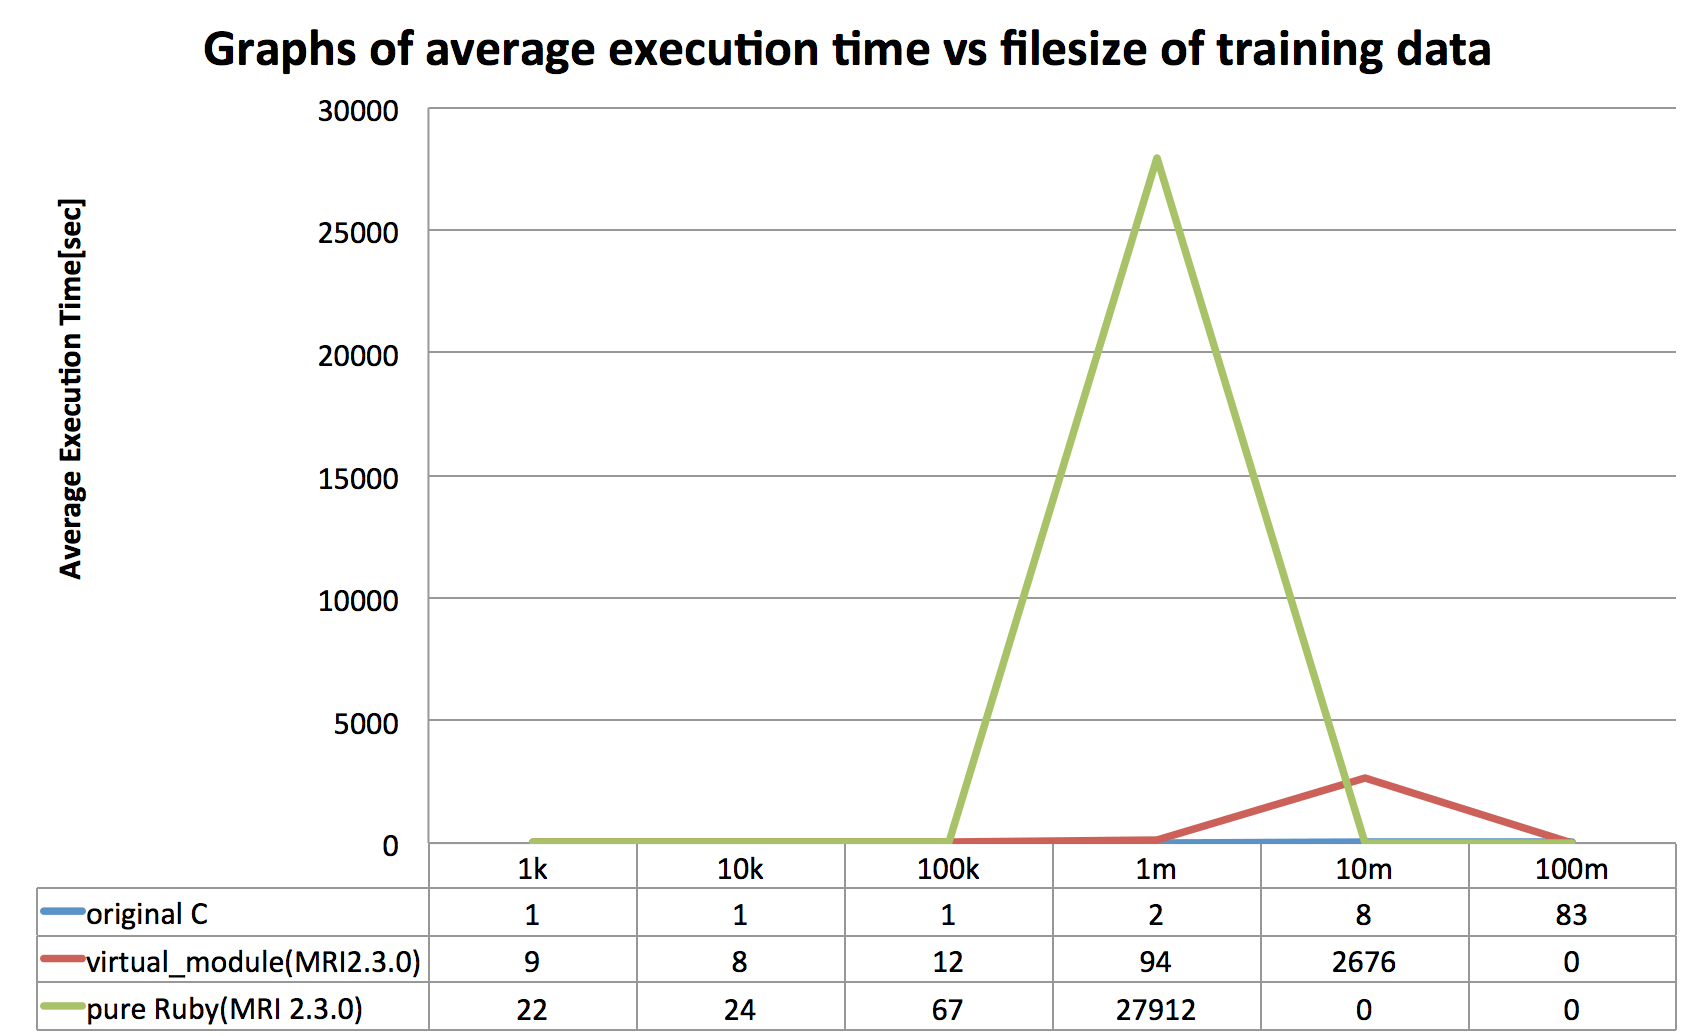
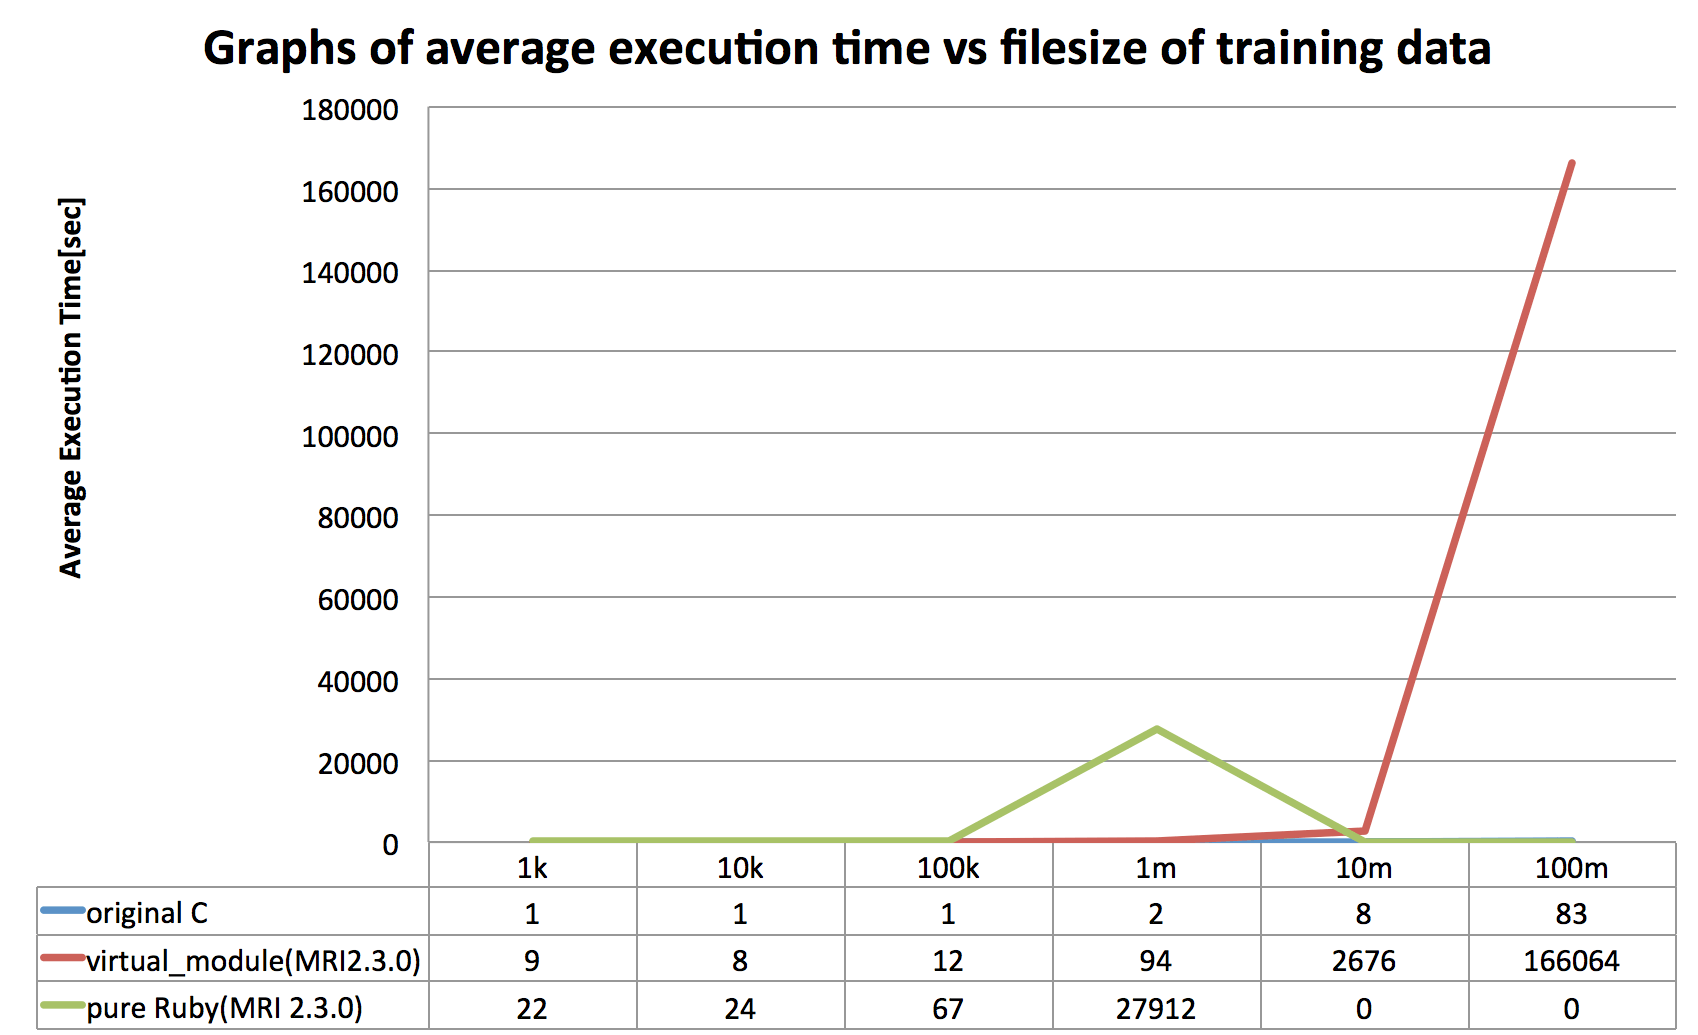
fix word2vec graph and add some description to README.md

diff --git a/README.md b/README.md
@@ -18,9 +18,9 @@ The other example here is a [prototype word2vec implementation in Ruby](https://
 
 ![Benchmarking results](https://raw.githubusercontent.com/remore/virtual_module/master/doc/assets/benchmark-result-of-word2vec-performance.png "Graphs of average execution time vs filesize of training data(Ubuntu16)")
 
-(Since Benchmarking is still on going, a few score values are still 0 but it's not a bug. I will update the graph once I get correct value for this.)
+(A few record values resulted in 0 because it took too much time, actually more than three days to complete due to exponential explosion happened.)
 
-Of course the vector binary file format generated through VirtualModule is compatible with original C implementation:
+Of course the vector binary file format generated through VirtualModule is compatible with original C implementation. Here is [sample generated vector files](https://github.com/remore/remore.github.com/tree/master/virtual_module/sample_output) saved onto GitHUb, and command logs are as shown below:
 
 ```
 $ cd example
